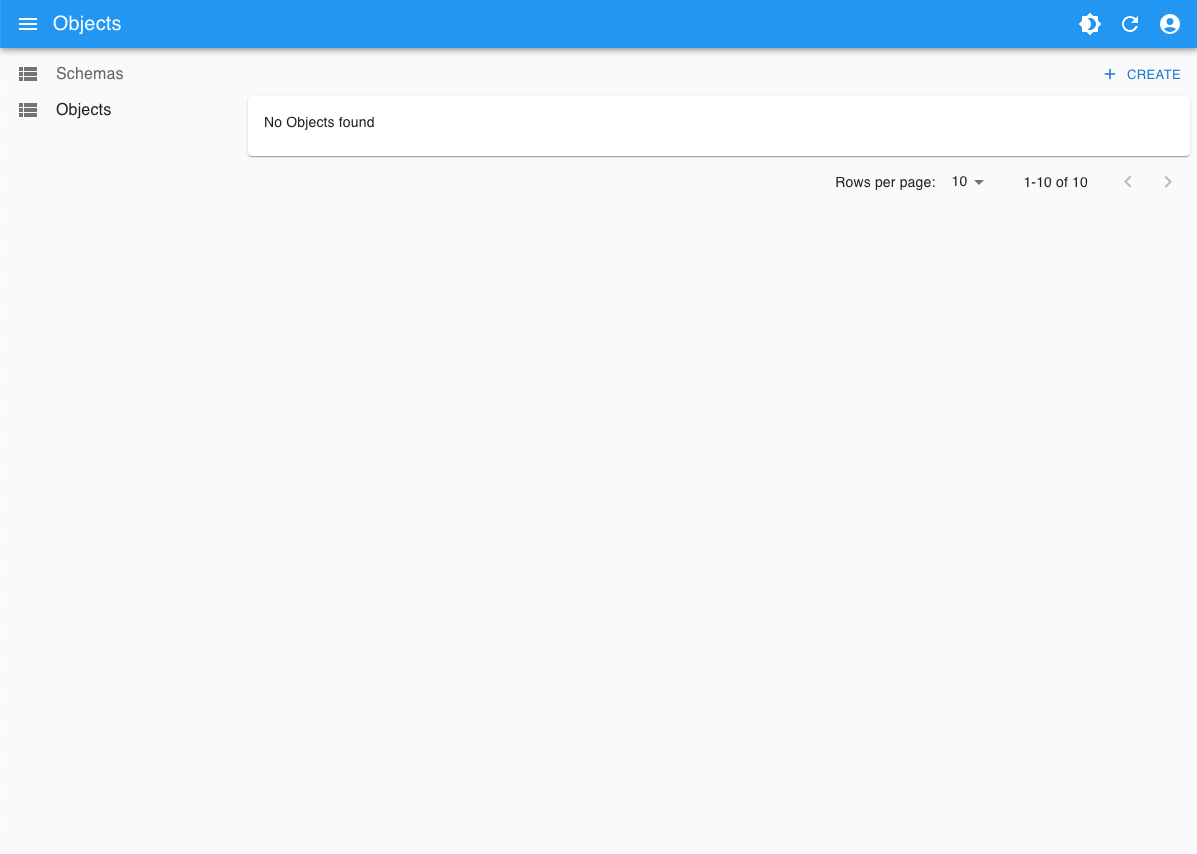
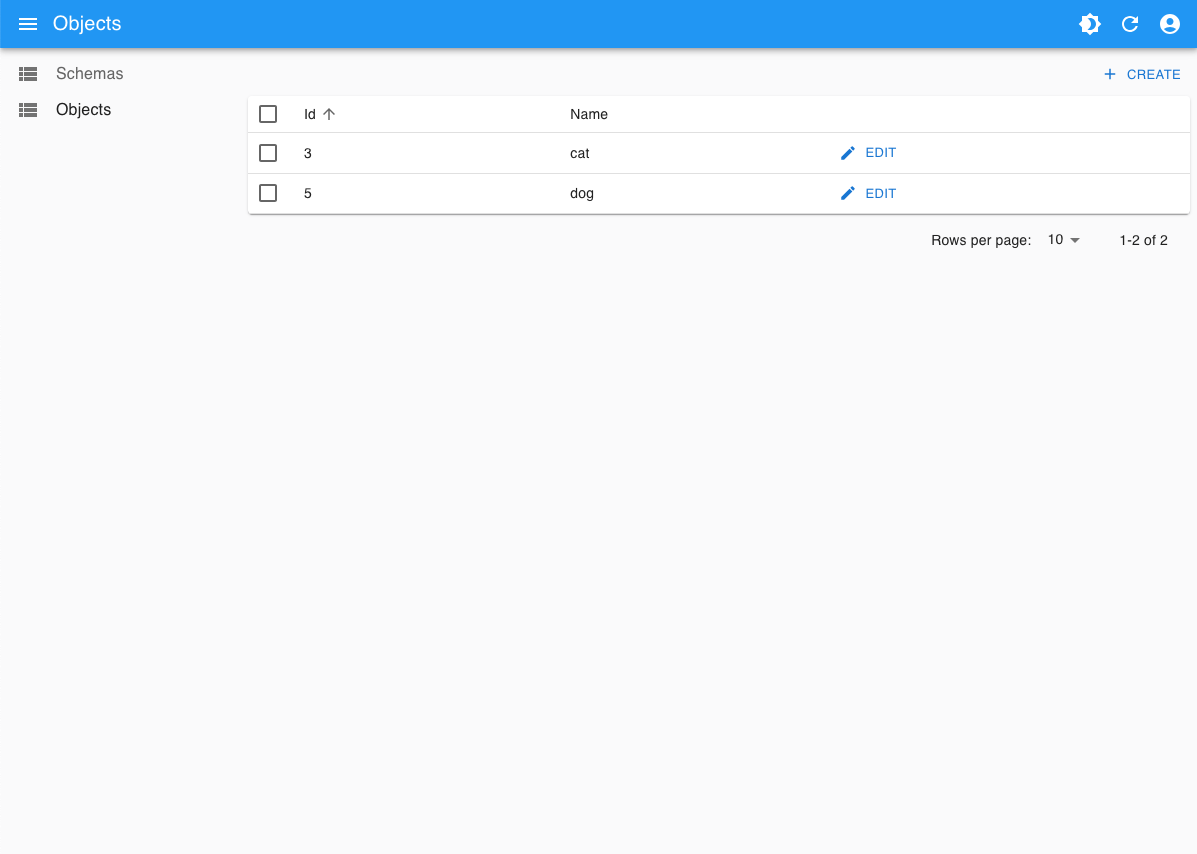
upd readme

Changed region(s): [[0.2164, 0.1218, 0.9891, 0.2436], [0.7728, 0.274, 0.8655, 0.3044]]

diff --git a/README.md b/README.md
@@ -77,8 +77,7 @@ Also you can import `storage/import/hello.zip` to see expected result.
 - Select `Administrator` as Editor
 #### Create Entity
 - Select Entities tab
-- Click Add
-- Pull down combo
+- Add then pull down new combo
 ![Hello World](./img/hello/schema/entity.png)
 - Input next code
 ```javascript
@@ -98,8 +97,7 @@ Also you can import `storage/import/hello.zip` to see expected result.
 ```
 #### Create Admin Components
 - Select Components tab
-- Click Add
-- Pull down combo
+- Add then pull down new combo
 ![Hello World](./img/hello/schema/create.png)
 - Input `Create` as Name
 - Input next code as Element
@@ -110,8 +108,7 @@ Also you can import `storage/import/hello.zip` to see expected result.
  </SimpleForm>
 </Create>
 ```
-- Click Add
-- Pull down combo
+- Add then pull down new combo
 ![Hello World](./img/hello/schema/edit.png)
 - Input `Edit` as Name
 - Input next code as Element
@@ -122,8 +119,7 @@ Also you can import `storage/import/hello.zip` to see expected result.
  </SimpleForm>
 </Edit>
 ```
-- Click Add
-- Pull down combo
+- Add then pull down new combo
 ![Hello World](./img/hello/schema/list.png)
 - Input `List` as Name
 - Input next code as Element
@@ -137,7 +133,6 @@ Also you can import `storage/import/hello.zip` to see expected result.
 </List>
 ```
 - Click Save button
-![Hello World](./img/hello/object/list.png)
 - Reload page, notice new menu item Objects along with Schemas
 ### Create Data Instances
 - Select Objects menu item
@@ -145,20 +140,18 @@ Also you can import `storage/import/hello.zip` to see expected result.
 ![Hello World](./img/hello/object/create.png)
 - Input `cat` as Name
 - Click Save button
-![Hello World](./img/hello/object/list1.png)
 - Select Objects menu item, notice new object
 - Click Create button
 - Input `dog` as Name
 - Click Save button
-![Hello World](./img/hello/object/list2.png)
+![Hello World](./img/hello/object/list.png)
 - Select Objects menu item, notice another object
 ### Data Querying
 #### Create Multiple Result Query
 - Select Schemas menu item
 - Click Edit button for 'object' row
 - Select Contents tab
-- Click Add
-- Pull down combo
+- Add then pull down new combo
 ![Hello World](./img/hello/object/content/menu.png)
 - Input `menu` as Name
 - Input next code as Options
@@ -189,8 +182,7 @@ curl "localhost:8090/api/content/object/menu"
 - Select Schemas menu item
 - Click Edit button for 'object' row
 - Select Contents tab
-- Click Add
-- Pull down combo
+- Add then pull down new combo
 ![Hello World](./img/hello/object/content/one.png)
 - Input `one` as Name
 - Turn on 'Single row' switch
@@ -216,8 +208,7 @@ curl "localhost:8090/api/content/object/one?id=1"
 - Select Schemas menu item
 - Click Edit button for 'object' row
 - Select Components tab
-- Click Add
-- Pull down combo
+- Add then pull down new combo
 ![Hello World](./img/hello/object/component/menu.png)
 - Input `Menu` as Name
 - Input next code as Element
@@ -234,8 +225,7 @@ curl "localhost:8090/api/content/object/one?id=1"
  }
 </Content>
 ```
-- Click Add
-- Pull down combo
+- Add then pull down new combo
 ![Hello World](./img/hello/object/component/header.png)
 - Input `Header` as Name
 - Input next code as Element
@@ -246,8 +236,7 @@ curl "localhost:8090/api/content/object/one?id=1"
  }
 </Content>
 ```
-- Click Add
-- Pull down combo
+- Add then pull down new combo
 ![Hello World](./img/hello/object/component/home.png)
 - Input `Home` as Name
 - Input next code as Element
